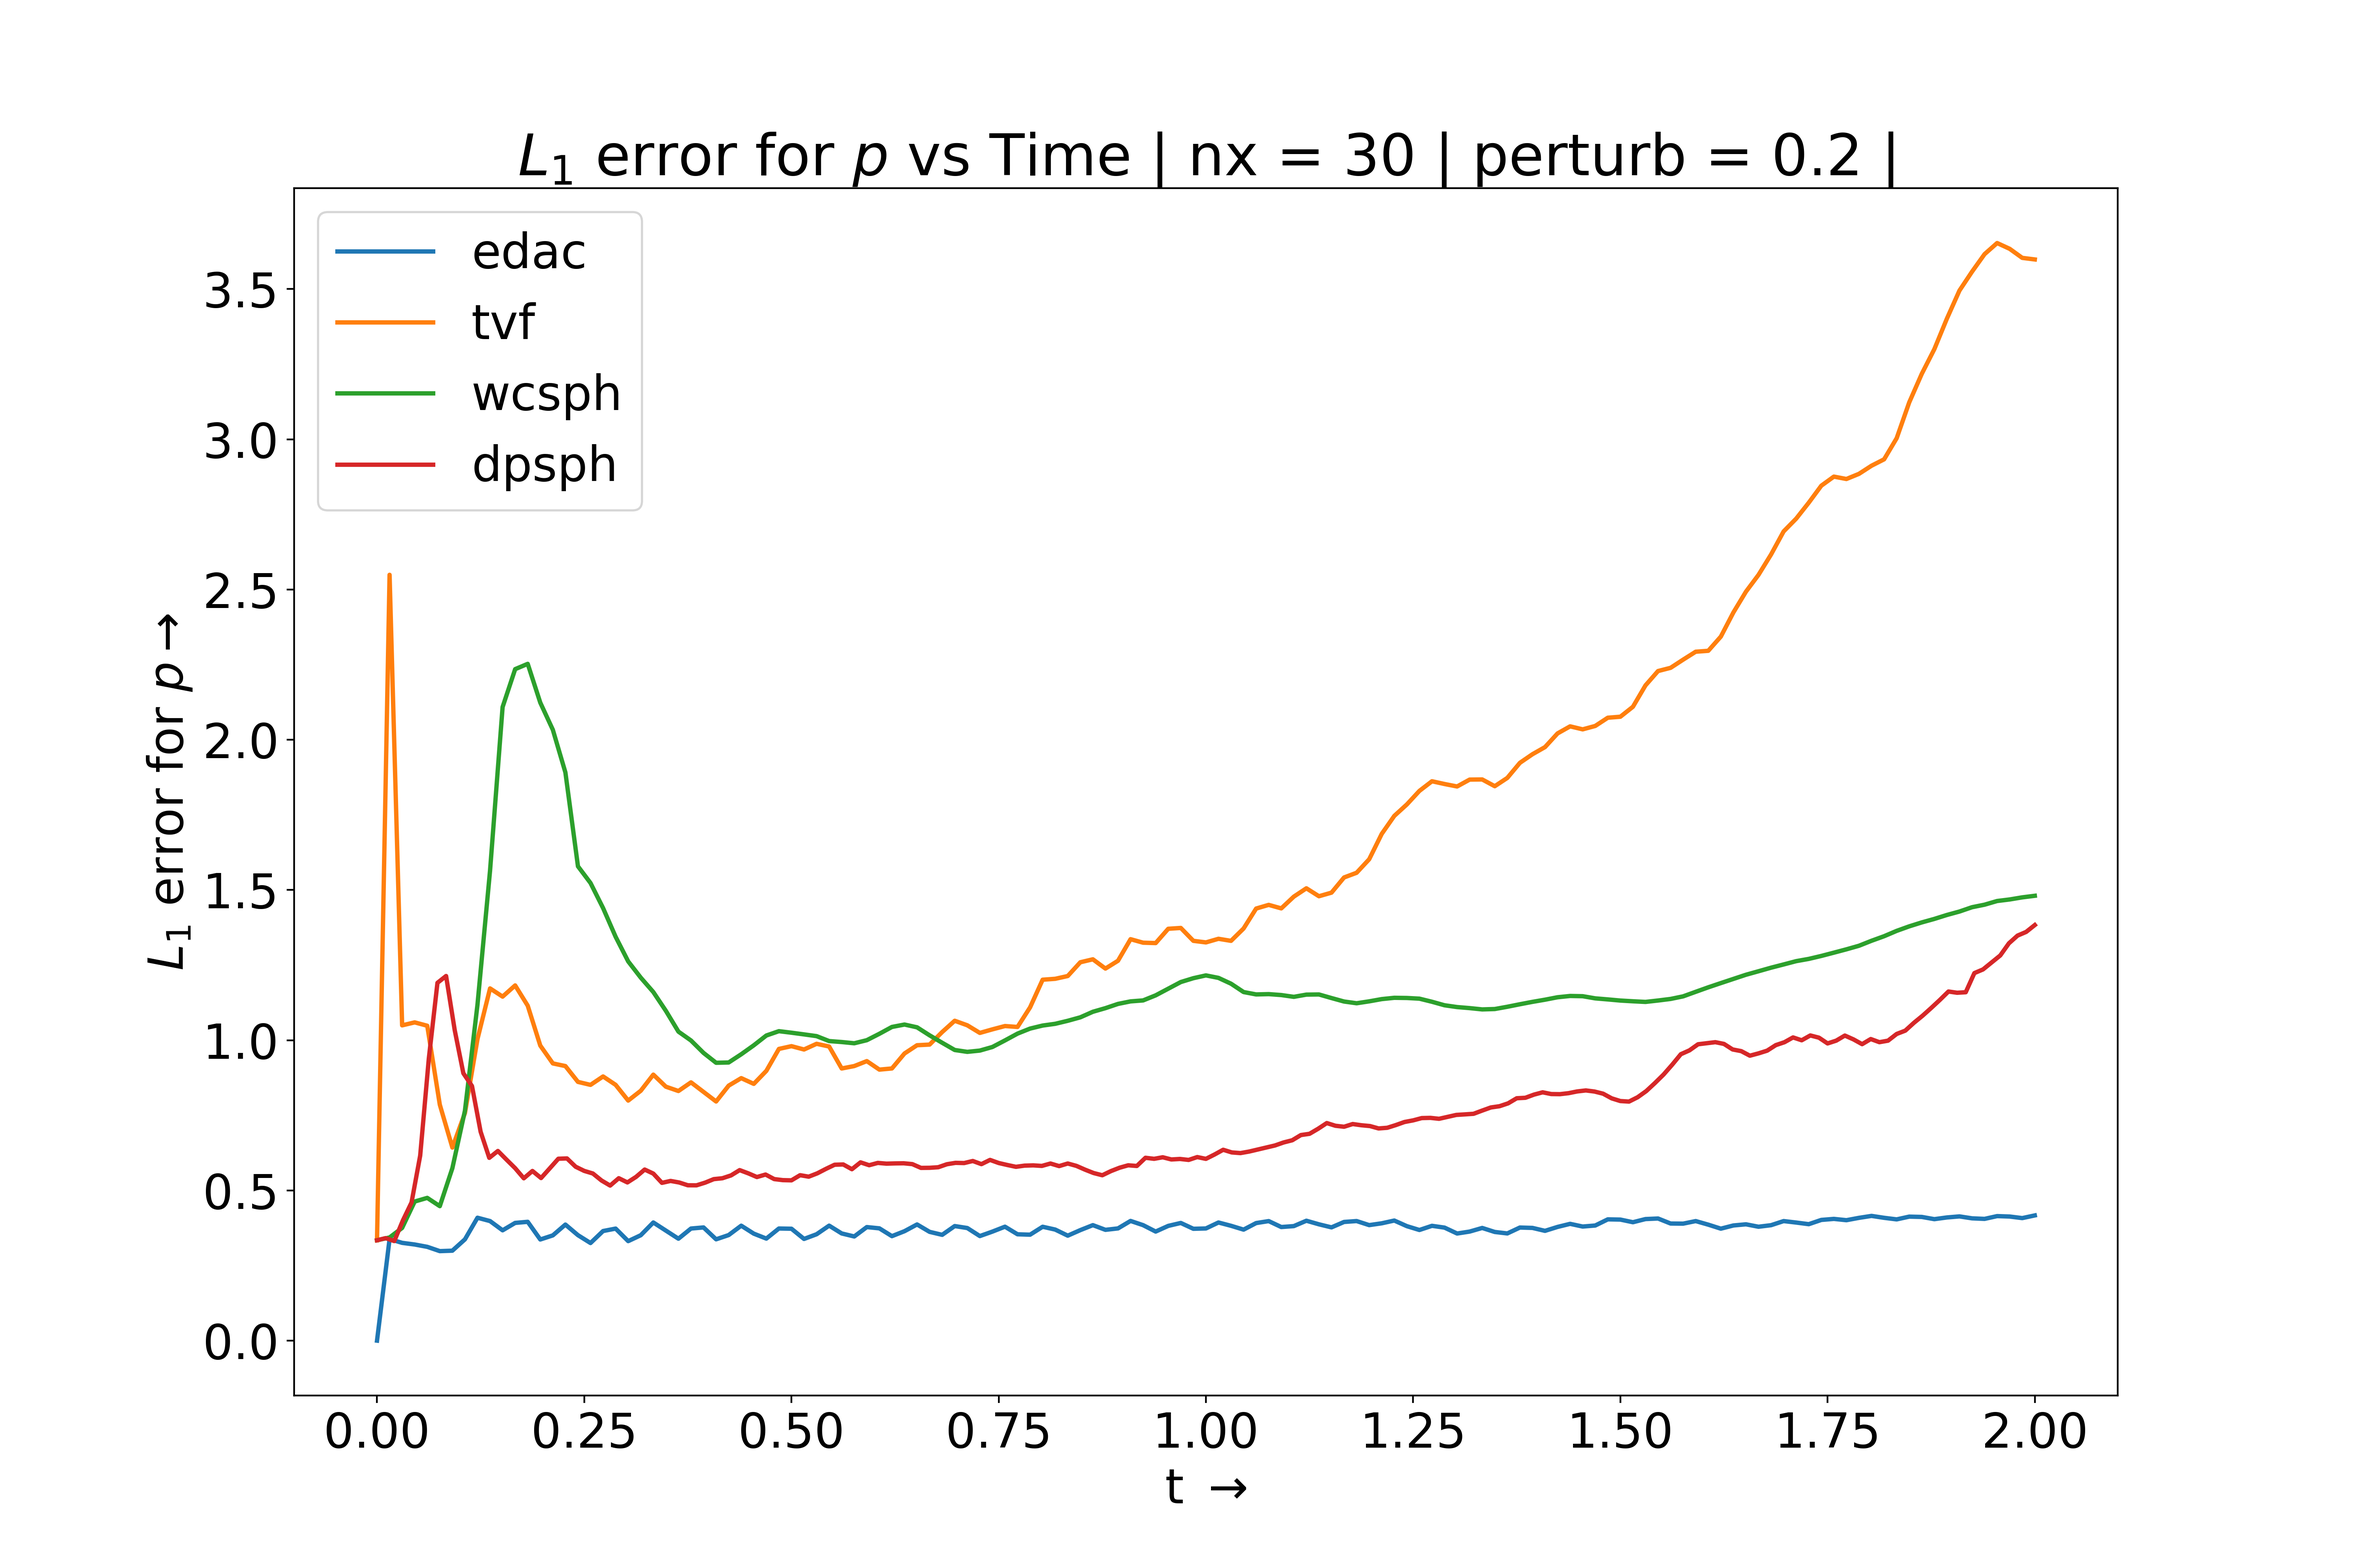
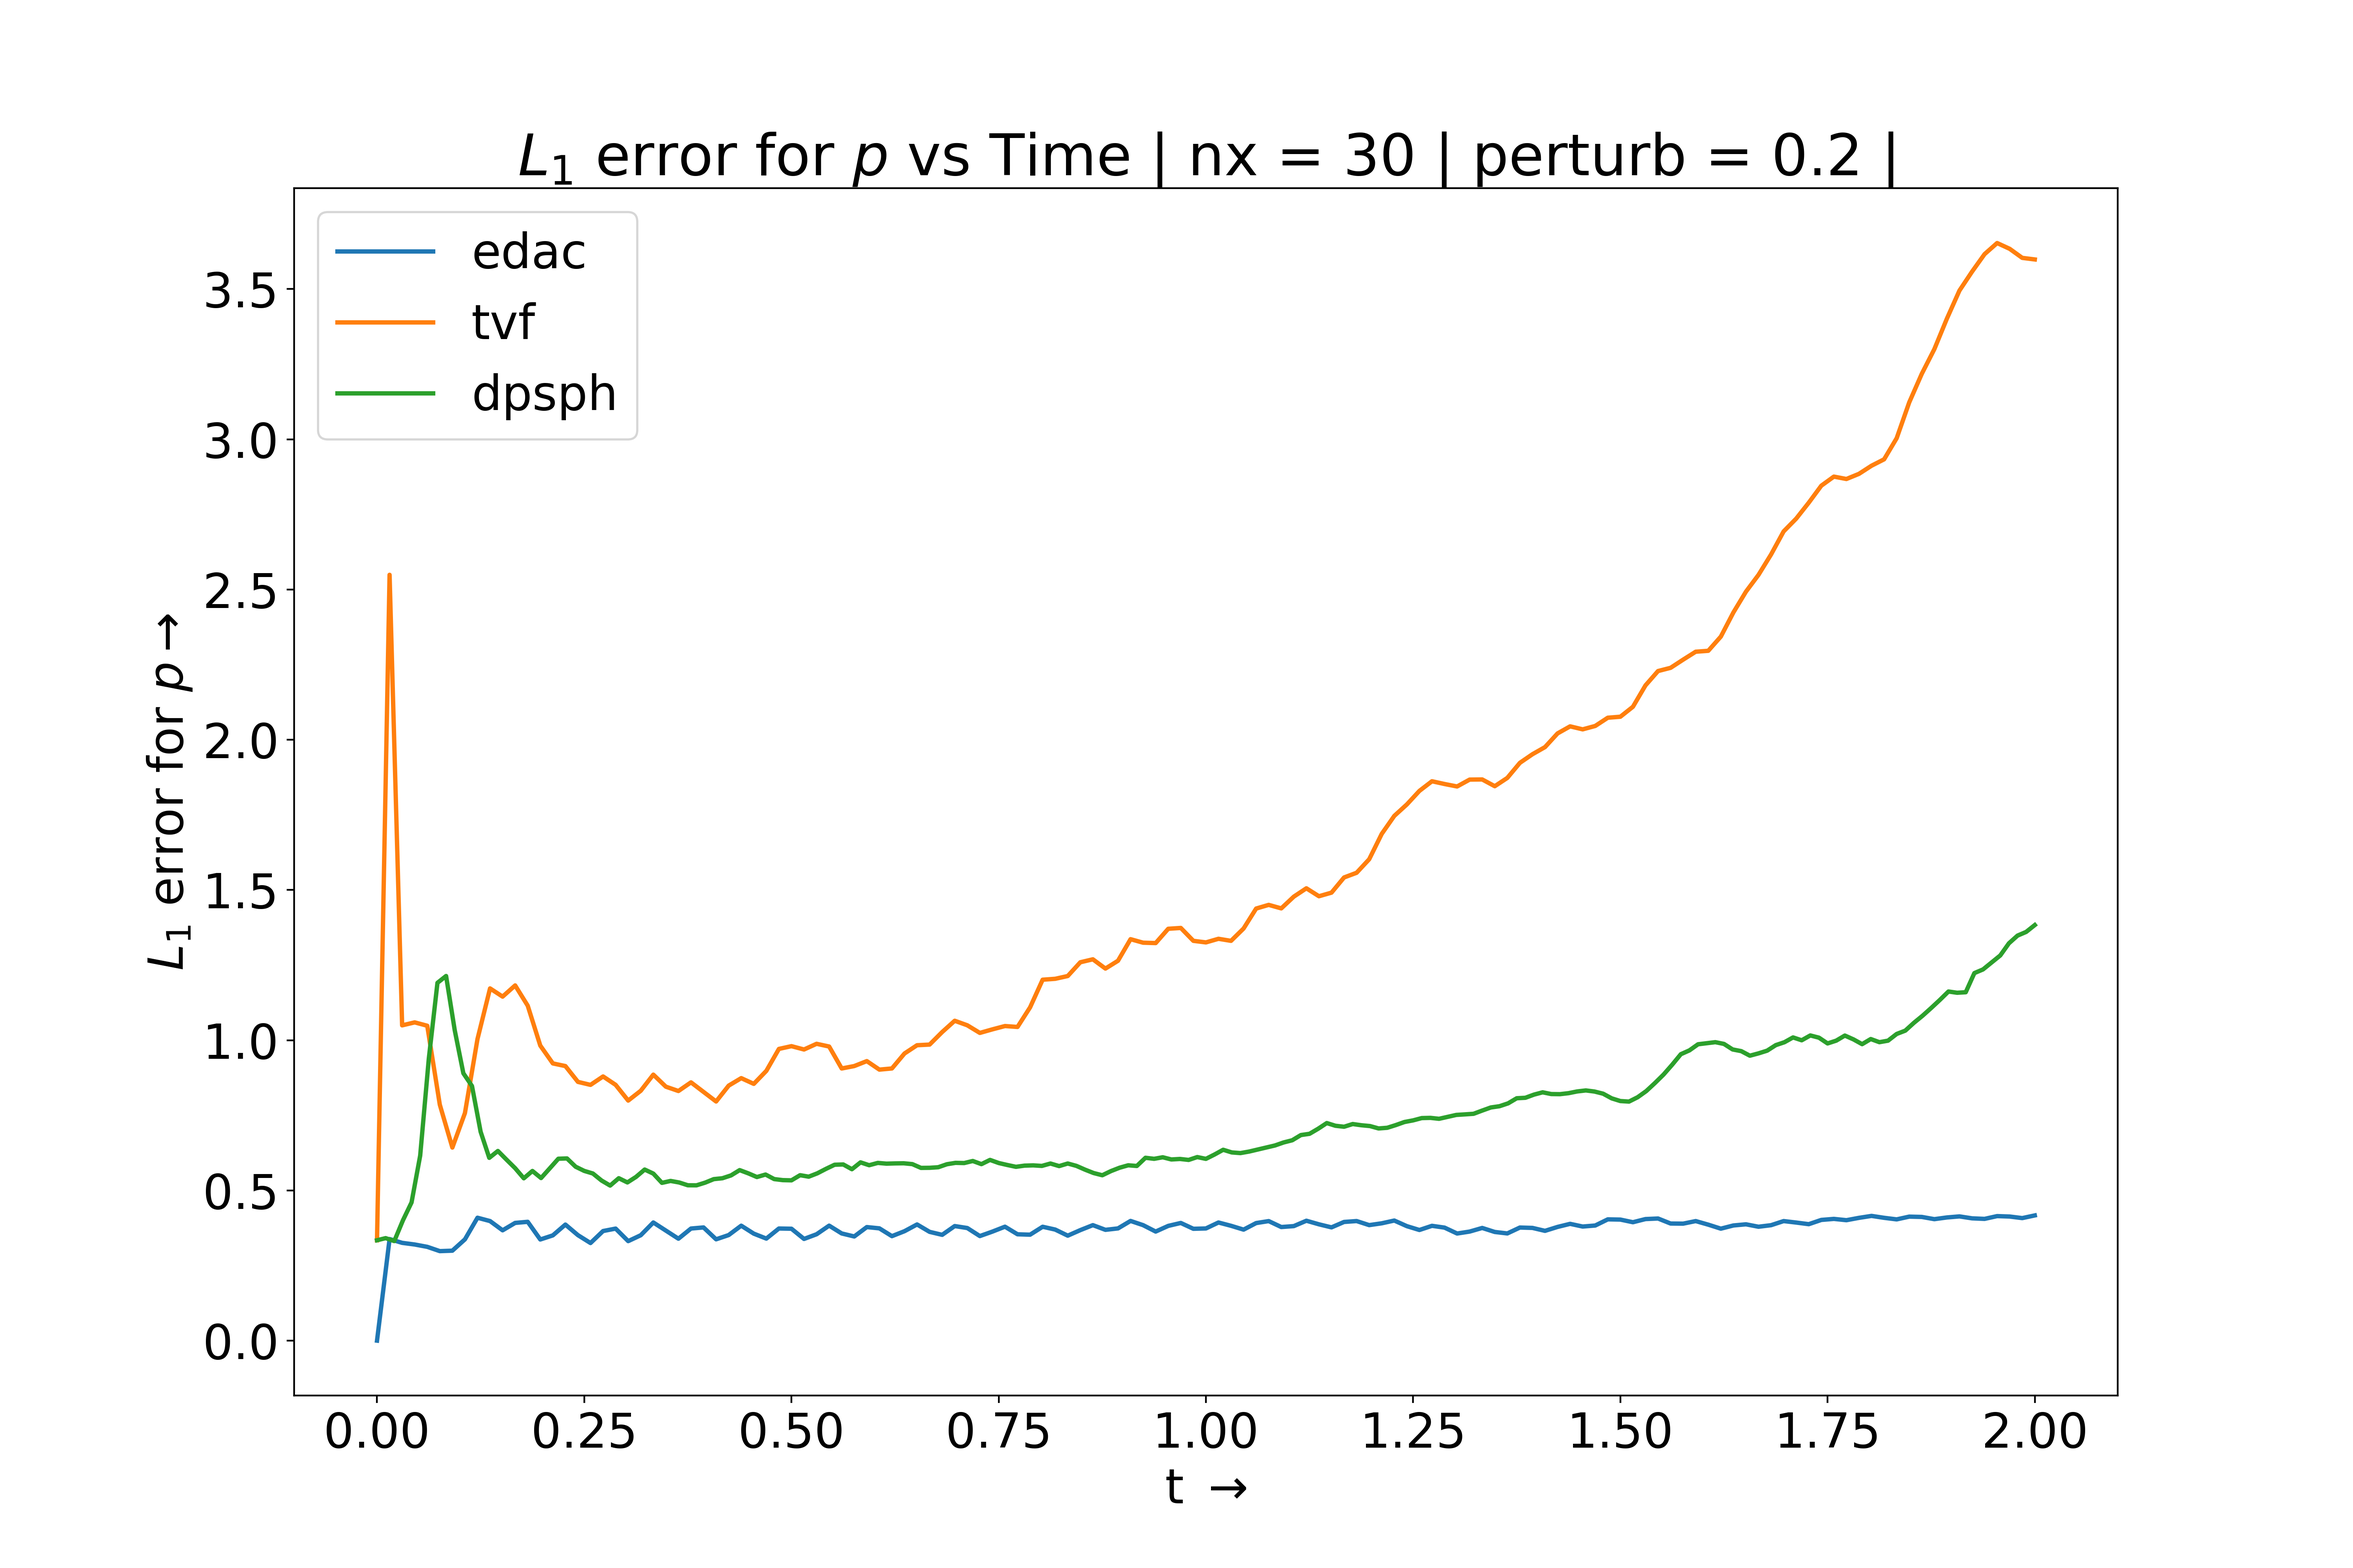
UPDATE: ------------- 1. Ignore 'wcsph' in the plots, and use better legends

diff --git a/SLP/Taylor Green Vortex/plot_output.py b/SLP/Taylor Green Vortex/plot_output.py
@@ -3,14 +3,15 @@ import matplotlib.pyplot as plt
 plt.rcParams.update({'font.size': 22})
 
 
-nx, perturb = 50, 0
+nx, perturb = 50, 0.2
 nx, perturb = str(int(nx)), str(perturb)
 
 file_base = '/home/prajwal/Desktop/Winter_Project/SLP-Smoothed-Particle-Hydrodynamics/SLP/Taylor Green Vortex/Output/'
 file_base += 'nx_' + nx + '/perturb_' + perturb
 
-sph_schm = ['edac', 'tvf', 'wcsph', 'dpsph']
-#sph_schm = ['1', '2', '3']
+#sph_schm = ['edac', 'tvf', 'wcsph', 'dpsph']
+sph_schm = ['edac', 'tvf', 'dpsph']
+#sph_schm = ['case-1', 'case-2', 'case-3']
 
 ################################################################################
 ## Plot decay
@@ -31,7 +32,7 @@ for schm in sph_schm:
     
     # Plot
     if schm == 'edac':
-    #if schm == '1':
+    #if schm == 'case-1':
         plt.semilogy(t, decay_ex, '--k', linewidth=3, label="exact")
     plt.semilogy(t, decay, linewidth=2, label=schm)
     
@@ -120,6 +121,7 @@ for schm in sph_schm:
     
     # Plot
     plt.plot(t, p_l1,linewidth=2, label=schm)
+    #plt.semilogy(t, p_l1,linewidth=2, label=schm)
     
 # Formatting
 plt.xlabel(r't $\rightarrow$')
@@ -135,7 +137,7 @@ plt.savefig(tle, dpi=400)
 ################################################################################
 ## Run-time
 ################################################################################
-
+'''
 nx_low = [54.58, 38.81, 31.11, 35.25]
 nx_high = [98.9, 126.99, 78.52, 97.91]
 x_ax = ['dpsph', 'edac', 'tvf', 'wcsph']
@@ -155,3 +157,4 @@ plt.legend()
 plt.grid()
 tle = 'runtime.png' 
 plt.savefig(tle, dpi=400)
+'''
